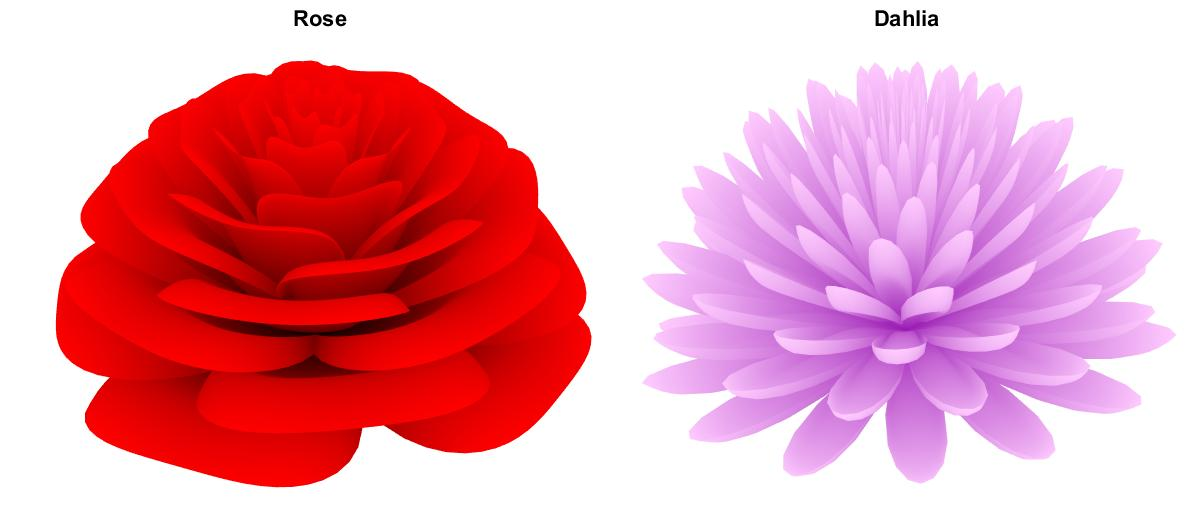
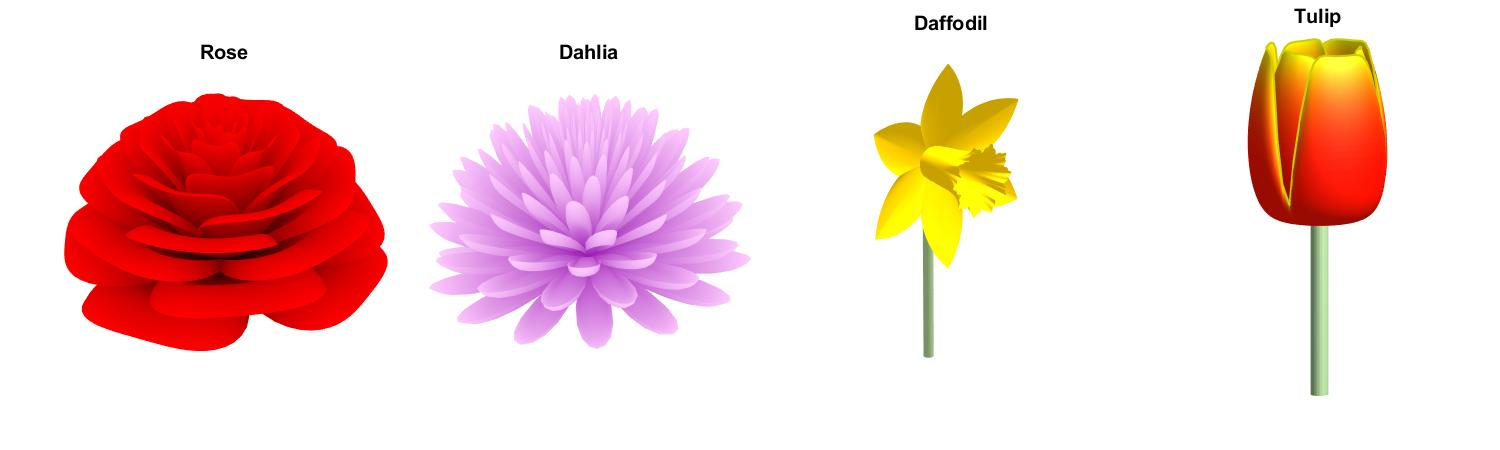
Add Daffodil and Tulip.  Add to sample image.

diff --git a/flowers/daffodil.m b/flowers/daffodil.m
@@ -1,0 +1,42 @@
+%% Plot an algorithmic daffodil
+
+%% Colors & Sizes
+pc = '#faca00'; % petal color
+sc = '#97b580'; % stem color
+np = 6; % number of petals.
+tr = .23; % Radius of trumpet
+nruf = 10; % number of trumpet ruffles
+sruf = .03; % size of trumpet ruffles
+sr = .05; % radius of the stem
+
+%% Unit circle arrays
+n = np*50+1; % Theta resolution
+theta = linspace(0,2,n);
+nr = 20; % Radus resolution
+r = linspace(0,1,nr)';
+
+%% Petals
+PR = r .* ((1-abs(1-mod(theta*np, 2)))/2+.5);
+PX = PR .* cospi(theta);
+PY = PR .* sinpi(theta);
+PZ = r.^3*.05+hypot(PX,PY)*.2;
+% Face our flower sideways by swapping Y&Z
+surf(PX,PZ,PY,[],'FaceColor',pc,'EdgeColor','none');
+
+%% Trumpet
+flute = flip(1-r*.3);
+ruffle = ((cospi(theta*nruf)+2)*sruf).*r.^5;
+ruffle2 = ((cospi(theta*nruf*3)+2)*sruf/3).*r.^9;
+TR = tr*flute + ruffle + ruffle2;
+surface(TR.*cospi(theta),r*tr*3.2,TR.*sinpi(theta),'FaceColor',pc,'EdgeColor','none');
+
+%% Stem
+SR = sr .* ones(nr,1);
+surface(SR.*cospi(theta),SR.*sinpi(theta)-sr,r*-2.*ones(1,n),'FaceColor',sc,'EdgeColor','none');
+
+%% Configure Axes & Lighting
+set(gca,'YDir','reverse','Projection','perspective','Visible','off','DataAspectRatio',[1 1 1])
+light('Position',[.5 .5 2],'Color','w');
+lighting g
+material([.8 .9 .2 2 .4])
+view([-40 20]);

diff --git a/flowers/tulip.m b/flowers/tulip.m
@@ -1,0 +1,29 @@
+%% MATLAB Tulip
+np = 3; % number of petals
+n=np*20+1; % Theta resolution
+theta=linspace(0, np*(1/np)*2,n);
+r=linspace(0,1,80)';
+
+newplot
+for k=[0 1/np] % 2 layers of petals
+    x=1-(.8*(1-mod(np*(theta+k),2)).^3-.05).^2/2;
+    Z1=((x.*r).^6);
+    R2=x.*r*(1-k*.38);
+    R3=x.*(r.^8)*.4.*Z1;
+    X=R2.*cospi(theta)-R3.*cospi(theta);
+    Y=R2.*sinpi(theta)-R3.*sinpi(theta);
+    C=repmat(r,1,n).^25;
+    %% Petals
+    surface(X,Y,Z1*2,C,'FaceColor','interp','EdgeColor','none','FaceLighting','gouraud');
+    line(X(end,:),Y(end,:),Z1(end,:)*2,'Color','#cc0','LineWidth',1);
+end
+%% Stem
+[CX,CY,CZ]=cylinder;
+surface(CX*.1,CY*.1,(CZ-1)*2,[],'FaceColor',"#9b8",'EdgeColor','none');
+%% Decorate!
+cmap=hot(200); % Colors of tulip
+colormap(gca,cmap(80:150,:)) % Extract subset of hot colormap.
+axis off equal
+view([0,10]);
+material(gca,[.6 .9 .3 2 .5])
+camlight(40,40)

diff --git a/flowers/flower_tiles.m b/flowers/flower_tiles.m
@@ -2,23 +2,32 @@ function flower_tiles
 % Display the interesting pumpkins in a tiled layout.
 
     fig = gcf;
-    fig.Position(3:4) = [ 800 350 ];
+    fig.Position(3:4) = [ 1000 300 ];
     fig.Color = 'w';
     
-    tiledlayout(1,2,'TileSpacing','none','Padding','none');
+    tiledlayout('flow','TileSpacing','none','Padding','none');
 
     nexttile;
     redrose
-    axis([-.7 .7 -.7 .7 -.2 .7])
+    axis([-.8 .8 -.8 .8 -.2 .7])
     set(gca,'clipping','off')
     axis off
     title('Rose')
 
     nexttile;
     dahlia
-    axis([-.7 .7 -.7 .7 -.2 .7])
+    axis([-.8 .8 -.8 .8 -.2 .7])
     set(gca,'clipping','off')
     axis off
     title('Dahlia')
 
+    nexttile
+    daffodil
+    axis off
+    title('Daffodil');
+
+    nexttile
+    tulip
+    axis off
+    title('Tulip');
 end
